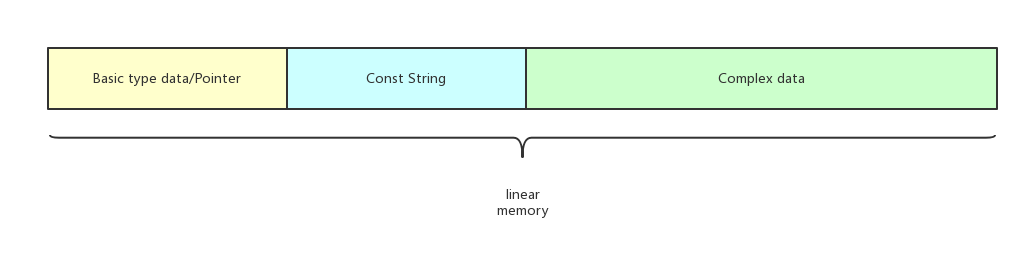
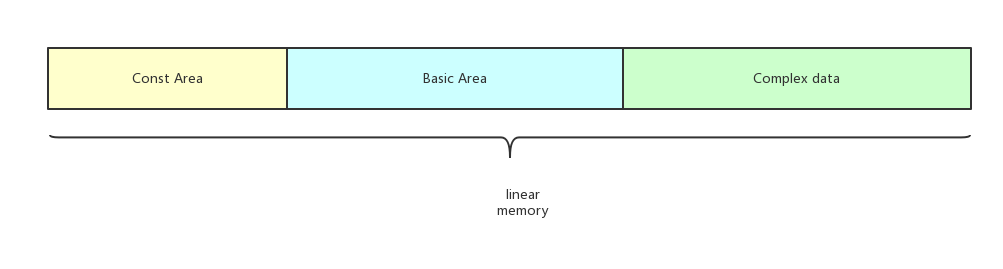
modify wasm_introduction.md

diff --git a/doc/wasw_introduction.md b/doc/wasw_introduction.md
@@ -130,9 +130,28 @@ char * hello(char * name){
 
 假如我们的传入参数为 "Alice",则我们需要在调用hello函数之前，将 "Alice"设置在export 的内存中，并将其地址(偏移量)传入到wasm中。
 
-问题，如何将传入的字符串设置到内存中？
+问题是：如何将传入的字符串设置到内存中？
 
-1. 
+在浏览器环境下，可以通过JavaScript直接设置，本文不讨论关于WebAssembly在浏览器环境下的使用，类似于Javascript，在ontology-wasm vm中内存是一个可以暴露出来的[]byte，这样我们就可以把参数的字符串转换成[]byte并拷贝到内存[]byte中，并将首地址传入WebAssembly函数，如果是WebAssembly 函数返回的字符串，我们同样可以根据返回的地址在内存中得到实际的字符串。
+
+现在看起来我们已经可以使用这个WebAssembly VM了，但是仍然存在一些问题：
+
+1. 不同的编译器对常量字符串在内存中的初始化位置并不相同：如Fiddle是从16开始，而 Emscripten由memoryBase这个传入的global 参数指定。
+
+2. 复杂的类型，如struct
+
+   ```c
+   struct Example {
+       char * name;
+       char * gender;
+       int age;
+   };
+   struct Example * p;
+   ```
+
+   当我们需要使用上例的struct 时，就需要为它分配相应的内存：
+
+   ![memory1](images/memory1.png)
 
 
 
@@ -140,6 +159,64 @@ char * hello(char * name){
 
 ### 管理内存
 
+由于WebAssembly VM使用的并不是真正的物理内存，需要我们自己来实现```malloc```和```calloc```实现对虚拟机内存的分配和管理（ontology-wasm 作为智能合约的执行器，并不需要长时间的持续运行，所以暂时没有加入```free()```操作，如果有需要，通过调整内存的页数来增大内存）。
+
+我们将内存分成3个区域：
+
+![memory](images/memory.png)
+
+1. Const Area：保存初始化的常量，从index 16开始，地址0作为NULL的标识。
+
+2. Basic Area ：保存基本类型的数据
+
+3. Complex Area ：保存复杂类型数据，如struct, array 等。
+
+   
+
+每次分配内存后，我们需要记录本次分配的信息：
+
+```go
+MemPoints       map[uint64]*TypeLength
+```
+
+```go
+const (
+	PInt8 PType = iota
+	PInt16
+	PInt32
+	PInt64
+	PFloat32
+	PFloat64
+	PString
+	PStruct
+	PUnkown
+)
+
+type TypeLength struct {
+	Ptype  PType
+	Length int
+}
+
+```
+
+key 为本次分配的内存地址，value为本次分配的类型和分配内存的总长度 ，这样我们就可以很容易的根据内存地址来得到实际对应的值的信息。
+
 
 
 ### 外部函数
+
+WebAssembly支持引入其他的WebAssembly 模块以调用其中的函数，只需要指定需要调用模块路径即可，如果在本模块内调用的函数并没有具体的实现，就会默认的被认为是从 env中导入。
+
+这样，我们就可以通过注册env 的函数来方便的调用native 方法， 如：
+
+```
+(import "env" "concat" (func $concat (param i32 i32) (result i32)))
+```
+
+我们就可以很方便的以golang来实现这个concat方法，从内存中取得两个字符串，拼接成新的字符串并为其分配和放入内存中，再将结果的地址压入执行栈中。
+
+ontology-wasm vm 实现了一些基本的操作，请参考 [Ontology Wasm API list](https://github.com/ontio/documentation/blob/master/smart-contract-tutorial/wasm_api.md)
+
+
+
+至此，我们就可以实现一个简单的基于WebAssembly的区块链智能合约执行虚拟机，随着WebAssembly标准的更新，我们也会持续为
